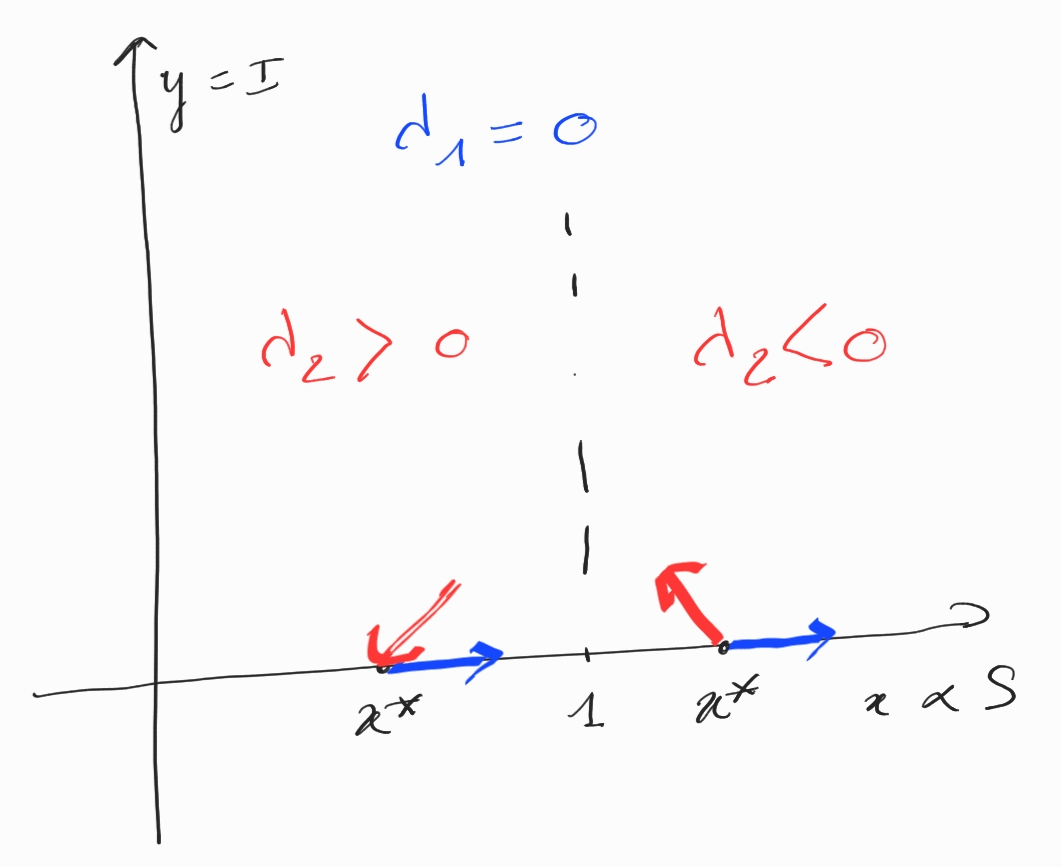
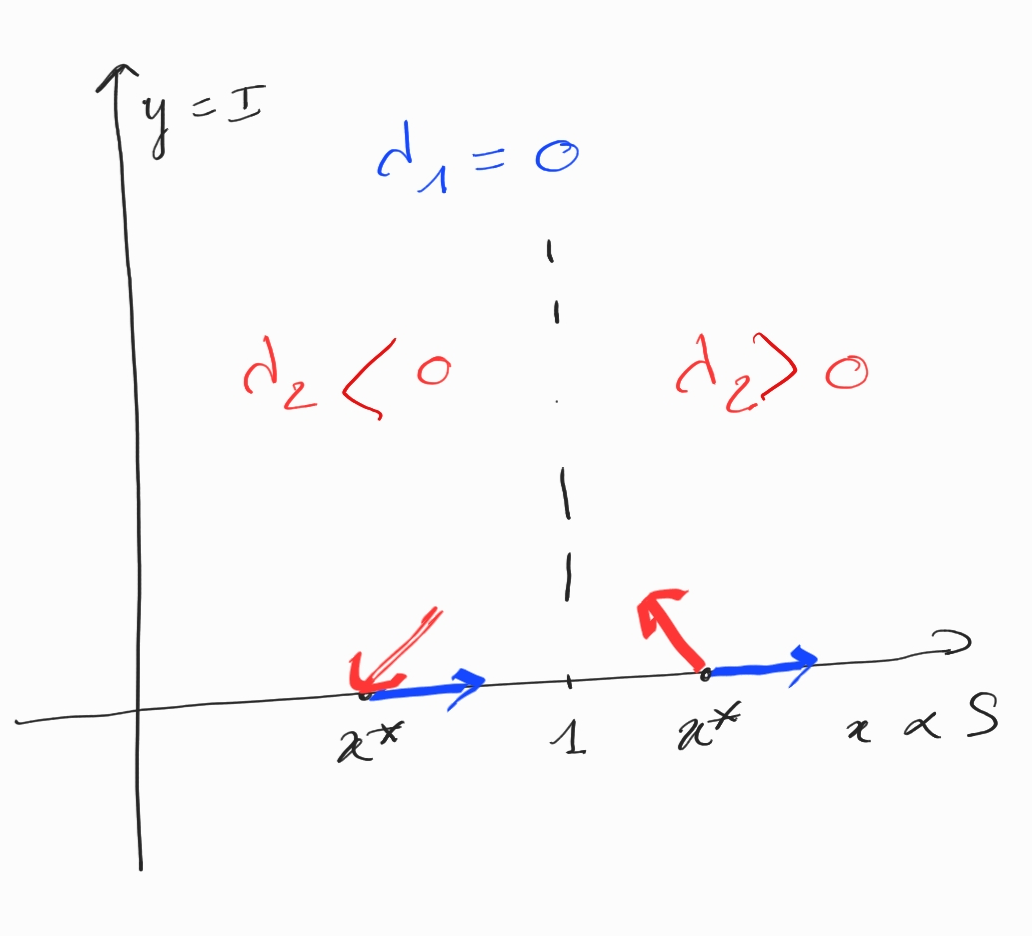
cours 6

diff --git a/Notes/EquaDiff/Modeles.tex b/Notes/EquaDiff/Modeles.tex
@@ -11,9 +11,9 @@
 
 On rappelle le modèle pour $y(t) = [N(t) \; P(t)]^\top$ où $N(t)$ est le nombre de proies au temps $t$ et $P(t)$ le nombre prédateurs au temps $t$:
 $$
-\left\{ \begin{array}{rcl} 
-  \dot N & = & r N - c N P \\
-  \dot P & = & b N P  - m P
+\left\{ \begin{array}{rclcl} 
+  \dot N & = & r N - c N P & = & \displaystyle{r N \left( 1 - \frac{cP}r \right)} \\
+  \dot P & = & b N P  - m P & = & \displaystyle{m P \left( \frac{bN}m - 1 \right)} 
 \end{array} \right.
 $$
 et où les paramètres $r$, $c$, $b$, $m$ sont tous positifs ou nuls.
@@ -21,13 +21,13 @@ et où les paramètres $r$, $c$, $b$, $m$ sont tous positifs ou nuls.
 %-------------------------------------------------------------------------------
 \paragraph*{Cas particuliers.}
 \begin{description}
-  \item[$P(t) = 0 $ (absence de prédateur) :] le système devient alors $\dot N = r N$ dont la solution est $N(t) = N_0 e^{rt}$ : la population de proies explose comme dans un modèle de Mathus.
-  \item[$N(t) = 0 $ (absence de proie) :] le système devient alors $\dot P = - m P$ dont la solution est $P(t) = P_0 e^{-mt}$ : la population de prédateurs s'éteint à vitesse exponentielle.
+  \item[$P(t) = 0 $ (absence de prédateur) :] le système devient alors $\{\dot N = r N, \dot P \equiv 0\}$ dont la solution est $N(t) = N_0 e^{rt}$ : la population de proies explose comme dans un modèle de Mathus.
+  \item[$N(t) = 0 $ (absence de proie) :] le système devient alors $\{\dot N \equiv 0, \dot P = - m P\}$ dont la solution est $P(t) = P_0 e^{-mt}$ : la population de prédateurs s'éteint à vitesse exponentielle.
 \end{description}
 
 %-------------------------------------------------------------------------------
 \paragraph*{Changement de variable.}
-Pour mener l'analyse mathématique de ce modèle, il est confortable de poser
+Pour mener l'analyse mathématique de ce modèle, il est confortable de ``reparamétriser'' le problème, c'est-à-dire de poser
 $$
 x(t) = \frac{b}m N(t)
 \qquad \text{et} \qquad
@@ -72,7 +72,7 @@ $$
 On a 
 $$
 J_{(0, 0)}F = 
-  \left[\begin{array}{ccc} 
+  \left[\begin{array}{rcr} 
     r  & & 0 \\
     0 & & -m 
   \end{array}\right]
@@ -88,7 +88,7 @@ dont les deux valeurs propres de $J_{(0, 0)}F$ sont $r$ et $-m$, qui sont de sig
 On a 
 $$
 J_{(1, 1)}F = 
-  \left[\begin{array}{ccc} 
+  \left[\begin{array}{rcr} 
     0 & & -r  \\
     m  & & 0
   \end{array}\right]
@@ -161,9 +161,9 @@ $$
 
 On rappelle le modèle pour $y(t) = [S(t) \; I(t) \; R(t)]^\top$ avec $S(t) =$ nombre de susceptibles au temps $t$, $I(t) =$ nombre d'infectés et $R(t) =$ nombre de 'remis' ({\em recovered}) :
 $$
-\left\{ \begin{array}{rcl} 
+\left\{ \begin{array}{rclcl} 
 \dot S & = & - r S I \\
-\dot I & = & r S I - a I \\
+\dot I & = & r S I - a I & = & \displaystyle{a \left(\frac{rS}a  - 1\right)} \\
 \dot R & = & a I \\
 \end{array} \right.
 $$
@@ -183,7 +183,7 @@ soit
 $$
 \left\{\begin{array}{rclcl}
         \dot x & = & -r x y & =: & F_1(x, y) \\
-        \dot y & = & a y (1-x) & =: & F_2(x, y)
+        \dot y & = & a y (x - 1) & =: & F_2(x, y)
        \end{array}\right.
 $$
 
@@ -192,10 +192,10 @@ $$
   \item $\dot x = - rxy$ est toujours négative : la population de susceptibles décroît systématiquement ; 
   \item la croissance du nombre de susceptible $y = I$ dépend de la position de $x$ par rapport à 1 :
   $$
-  \dot y \left\{\begin{array}{lll}
-                < 0 & (y \downarrow) & \text{si } x > 1, \\
-                = 0  & (y = \cst) & \text{si } x = 1, \\
-                > 0  & (y \uparrow) & \text{si } x < 1,
+  \left\{\begin{array}{lllll}
+                \dot y < 0 & & (y \downarrow) & \text{si } x > 1, \\
+                \dot y = 0 & & (y = \cst) & & \text{si } x = 1, \\
+                \dot y > 0 & & (y \uparrow) & & \text{si } x < 1,
                 \end{array}\right..
   $$
 \end{enumerate}
@@ -220,17 +220,17 @@ $$
 On calcule la jacobienne
 $$
 J_{(x, y)}F = 
-  \left[\begin{array}{ccc} 
+  \left[\begin{array}{rcr} 
     - r y & & -r x \\
-    - a y & & a (1 - x)
+    - a y & & a (x - 1)
   \end{array}\right].
 $$
 soit, pour $y = 0$
 $$
 J_{(x, 0)}F = 
-  \left[\begin{array}{ccc} 
+  \left[\begin{array}{rcr} 
     0 & & -r x \\
-    0 & & a (1 - x)
+    0 & & a (x - 1)
   \end{array}\right].
 $$
 
@@ -238,15 +238,15 @@ $$
 \paragraph*{Nature du point d'équilibre $(x^*, 0)$.}
 Le polynôme caractéristique de $J_{(x^*, 0)}F$ est
 $$
-P(\lambda) = \lambda (\lambda - a (1 - x^*)).
+P(\lambda) = \lambda (\lambda - a (x^* - 1)).
 $$
 Les valeurs propres sont donc $\lambda_1 = 0$ et 
 $$
-\lambda_2 = a (1 - x^*) 
+\lambda_2 = a (x^* - 1) 
 \qquad \Rightarrow \qquad 
 \left\{\begin{array}{ll} 
-  \lambda_2 > 0 & \text{si } x^* < 1, \\
-  \lambda_2 < 0 & \text{si } x^* > 1
+  \lambda_2 > 0 & \text{si } x^* > 1, \\
+  \lambda_2 < 0 & \text{si } x^* < 1
 \end{array} \right.
 $$
 et les vecteurs propres associés vérifient 
@@ -278,8 +278,8 @@ et les vecteurs propres associés vérifient
 %-------------------------------------------------------------------------------
 \paragraph*{\'Etude de stabilité.}
 \begin{description}
-  \item[$x^* < 1$ :] dans ce cas $\lambda_2 > 0$, donc le système est instable (dans la direction verticale = infectés) : si on part avec un $y_0$ faible et un $x_0 = rS_0/a > 1$ fort, le système s'éloigne du point départ avec déclenchement d'une épidémie ($x \uparrow$)
-  \item[$x^* > 1$ :] dans ce cas $\lambda_2 < 0$, donc le système est stable (dans la direction verticale = infectés) : si on part avec un $y_0$ faible et un $x_0 = rS/a < 1$ faible, le système retourne vers le un point $(x^*, 0)$ proche du point départ sans déclenchement d'une épidémie ($x \downarrow$)
+  \item[$x^* > 1$ :] dans ce cas $\lambda_2 > 0$, donc le système est instable (dans la direction verticale = infectés) : si on part avec un $y_0$ faible et un $x_0 = rS_0/a > 1$ fort, le système s'éloigne du point départ avec déclenchement d'une épidémie ($x \uparrow$)
+  \item[$x^* < 1$ :] dans ce cas $\lambda_2 < 0$, donc le système est stable (dans la direction verticale = infectés) : si on part avec un $y_0$ faible et un $x_0 = rS/a < 1$ faible, le système retourne vers le un point $(x^*, 0)$ proche du point départ sans déclenchement d'une épidémie ($x \downarrow$)
 \end{description}
 
 \dessin{
@@ -341,4 +341,10 @@ $$
 \includegraphics[width=.5\textwidth, trim=0 40 0 0, clip=]{SIR-finalState} 
 $$
 }
-Puisqu'on sait que $x_\infty  < 1$, on a $S_\infty < \rho$ : $S_\infty$ est donné par la plus petite valeur pour laquelle $f(x)$ vaut $S_0 e^{- N / \rho}$
+Puisqu'on sait que $x_\infty  < 1$, on a $S_\infty < \rho$ : $S_\infty$ est donné par la plus petite valeur pour laquelle $f(x)$ vaut $S_0 e^{- N / \rho}$.
+
+On peut vértifier que cette valeur existe bien en posant $C_0 = N - S_0$, on a
+$$
+0 < S_0 e^{-N/\rho} = e^{-c_0/\rho} S_0 e^{-s_0 / \rho}  = e^{-c_0/\rho} f(S_0) \leq f(S_0)
+$$
+(puisque $e^{-c_0/\rho} \leq 1$). La valeur $S_0 e^{-N/\rho}$ est donc bien atteinte par la fonction $f$.

diff --git a/Notes/EquaDiff/1DsolMaximale.tex b/Notes/EquaDiff/1DsolMaximale.tex
@@ -1,21 +1,21 @@
 % \'Equations différentielles et systèmes dynamiques en temps continu. Existence, unicité des solutions. Recherche des équilibres et linéarisation. Classification des équilibres en dimensions 1 et 2.
 
-\progres{
-  Rappel cours 4 :
-  \begin{itemize}
-    \item Différentiabilité, matrice jacobienne, composition
-    \item Intégration et changement de variable
-    \item Caractérisation des extremums
-    \item Exercice à faire : extrema de $f(x, y) = x^3 + y^3 - 3xy$.
-  \end{itemize}
-  Programme cours 5 :
-  \begin{itemize}
-    \item Chapitre 3 : équations différentielles et systèmes dynamiques
-    \item EDO en dimension 1 : solution maximale, stabilité
-    \item EDO en dimension $n$ : cas linéaire
-    \item EDO en dimension $n$ : cas non linéaire
-  \end{itemize}
-}
+% \progres{
+%   Rappel cours 4 :
+%   \begin{itemize}
+%     \item Différentiabilité, matrice jacobienne, composition
+%     \item Intégration et changement de variable
+%     \item Caractérisation des extremums
+%     \item Exercice à faire : extrema de $f(x, y) = x^3 + y^3 - 3xy$.
+%   \end{itemize}
+%   Programme cours 5 :
+%   \begin{itemize}
+%     \item Chapitre 3 : équations différentielles et systèmes dynamiques
+%     \item EDO en dimension 1 : solution maximale, stabilité
+%     \item EDO en dimension $n$ : cas linéaire
+%     \item EDO en dimension $n$ : cas non linéaire
+%   \end{itemize}
+% }
 
 %-------------------------------------------------------------------------------
 \paragraph*{Objectif.} 
@@ -110,6 +110,8 @@ Ce modèle est connu en dynamique des population sous le nom de {\em modèle de 
   Si $F$ est $C^1$ par morceaux, il existe une unique solution $f$ sur $I$ au problème de Cauchy qui soit maximale au sens où si $g$ est également solution sur $J$, alors $J \subset I$ et $g(t) = f(t)$ pour tout $t \in J$. $f$ est appelée solution maximale et $I$ intervalle maximal.
 \end{theorem}
 
+\proof Non démontré. \eproof
+
 \remark
 $f(t) = y_0 e^{r(t-t_0)}$ est donc l'unique solution du problème $\{y_0 = y(t_0), \; \dot y = r y\}$ sur l'intervalle maximal $\Rbb$.
 
@@ -123,7 +125,7 @@ $f(t) = y_0 e^{r(t-t_0)}$ est donc l'unique solution du problème $\{y_0 = y(t_0
   \begin{align*}
     \dot y & = -c y^2 & 
     & \Leftrightarrow & 
-    c & = - \frac{\dot y}{y^2} = \frac{\partial}{\partial t} \frac1y \\
+    c & = - \frac{\dot y}{y^2} = \frac{\partial}{\partial t} \frac1y = \dot{\left(\frac1y\right)}\\
     \text{donc} \qquad 
     \frac1y & = a + ct & 
     & \Leftrightarrow &
@@ -223,14 +225,25 @@ $$
   t \neq t_* = -\frac1r \log(-a_0),
   $$
   qui est donc une solution maximale sur $\Rbb \setminus \left\{t_*\right\}$ pour $y_0 < 0$ comme pour $y_0 > K$. \\
-  On remarque que
+  On remarque de plus que
   $$
   \dot y(t) = \frac{K a_0 r e^{rt}}{(1 + a_0 e^{rt})^2}  < 0.
   $$
-  $$
-  \includegraphics[width=.6\textwidth]{Verhulst-solutions}
-  $$
-  On remarque cependant que
+  
+  \begin{tabular}{cc}
+    \begin{tabular}{p{0.2\textwidth}}
+      \textcolor{red}{$y_0 > K$}
+      
+      \bigskip
+      \textcolor{darkgreen}{$y_0 < K$}
+    \end{tabular}
+    &
+    \begin{tabular}{p{0.5\textwidth}}
+      \includegraphics[width=.6\textwidth]{Verhulst-solutions}
+    \end{tabular}
+  \end{tabular}
+  
+  On remarque que
   \begin{align*}
     y_0 & < 0 & \Rightarrow \quad |y_0| & < |K - y_0| & 
     \Rightarrow \quad |a_0| & < 1 & \Rightarrow \quad t_* & > 0, \\

diff --git a/Notes/EquaDiff/Linearisation.tex b/Notes/EquaDiff/Linearisation.tex
@@ -159,19 +159,19 @@ avec $z_0 = z(0) = P^{-1} y(0) = P^{-1} y_0$. La solution s'obtient en revenant 
   en notant $\Re(u)$ la partie réelle du nombre complexe $u$.
 \end{theorem}
 
-\progres{
-  Rappel cours 5 :
-  \begin{itemize}
-    \item Equation différentielle ordinaire en dimension 1
-    \item Stabilité des points stationnaires
-    \item Equation différentielle ordinaire en dimension $n$ : $A$ diagonale, diagonalisable
-  \end{itemize}
-  Programme cours 6 :
-  \begin{itemize}
-    \item Equation différentielle ordinaire non-linéaire en dimension $n$, linéarisation
-    \item Equation différentielle ordinaire non-linéaire en dimension $2$
-  \end{itemize}
-}
+% \progres{
+%   Rappel cours 5 :
+%   \begin{itemize}
+%     \item Equation différentielle ordinaire en dimension 1
+%     \item Stabilité des points stationnaires
+%     \item Equation différentielle ordinaire en dimension $n$ : $A$ diagonale, diagonalisable
+%   \end{itemize}
+%   Programme cours 6 :
+%   \begin{itemize}
+%     \item Equation différentielle ordinaire non-linéaire en dimension $n$, linéarisation
+%     \item Equation différentielle ordinaire non-linéaire en dimension $2$
+%   \end{itemize}
+% }
 
 %-------------------------------------------------------------------------------
 \subsection{Linéarisation} 

diff --git a/Notes/EquaDiff/ODE2D.tex b/Notes/EquaDiff/ODE2D.tex
@@ -115,16 +115,17 @@ $$
 $$
 Les orbites sont alors les lignes de niveau du hamiltonien : 
 $$
-\Ccal_z = \{x, y: H(x, y, ) = z\}.
+\Ccal_z = \{x, y: H(x, y) = z\}.
 $$
 
-La difficulté réside alors dans la détermination d'une fonction $H$ qui vérifie la proposition \ref{prop:hamiltonien} en dimension 2 : 
+La difficulté réside alors dans la détermination d'une fonction $H$ qui vérifie la proposition \ref{prop:hamiltonien} en dimension 2. En appliquant la règle de composition $J_x f \circ g = J_{g(x)} f \; J_x g$, il vient : 
 \begin{align} \label{eq:derivHnulleD2}
-  \dot x(t) \frac{\partial H}{\partial x} (x(t), y(t)) +
-  \dot y(t) \frac{\partial H}{\partial y} (x(t), y(t)) & = 0 \nonumber \\
+  \dot H(x, y) =
+  \frac{\partial H}{\partial x} (x(t), y(t)) \dot x(t) +
+  \frac{\partial H}{\partial y} (x(t), y(t)) \dot y(t) & = 0 \nonumber \\
   \Leftrightarrow \qquad 
   F_1(x, y) \frac{\partial H}{\partial x} (x, y) +
-  F_2(x, y) \frac{\partial H}{\partial y} (x, y) & = 0
+  F_2(x, y) \frac{\partial H}{\partial y} (x, y) & = 0.
 \end{align}
 
 %-------------------------------------------------------------------------------

diff --git a/Macros.tex b/Macros.tex
@@ -28,6 +28,7 @@ $\blacksquare$
 \bigskip}
 
 % Effets, couleurs
+\definecolor{darkgreen}{cmyk}{0.5, 0, 0.5, 0.4}
 \newcommand{\emphase}[1]{\textcolor{red}{#1}}
 \newcommand{\demoProp}[1]{\noindent{\textbf{\textsl{Démonstration de la proposition \ref{#1} :}}}}
 \newcommand{\itemdot}{\textbullet}

diff --git a/TD/SujetTD.tex b/TD/SujetTD.tex
@@ -30,7 +30,7 @@
 \numberwithin{equation}{subsubsection}
 
 % Suppression des solutions
-\renewcommand{\solution}[1]{}
+% \renewcommand{\solution}[1]{}
 
 \pagestyle{fancyplain}
 \fancyhf{}
